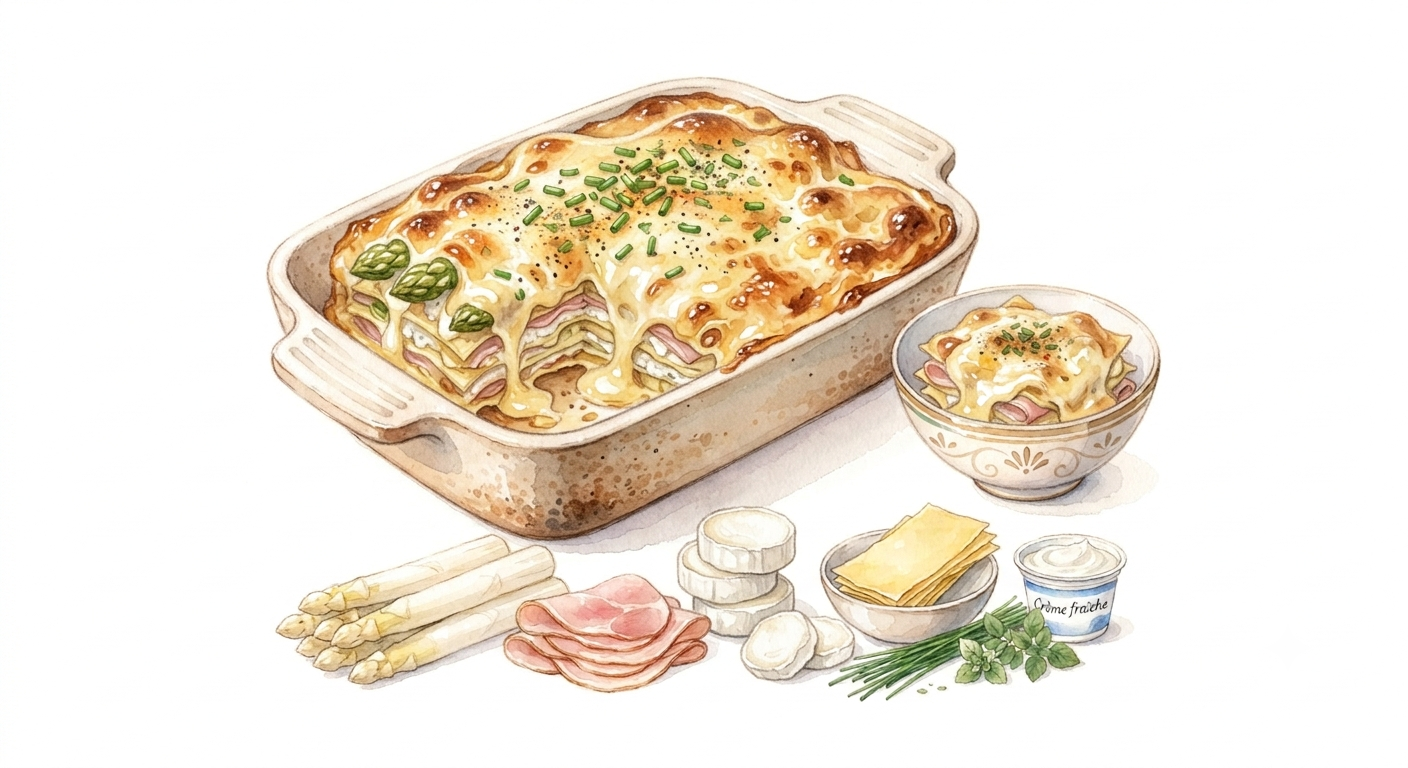
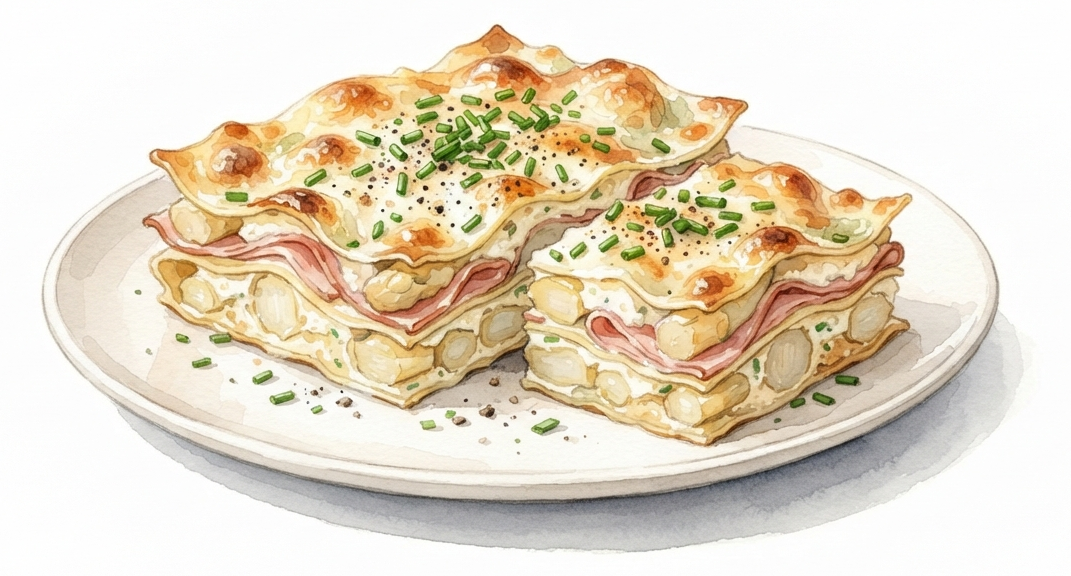
Add margin illustrations for pepernoten whitening, tarte tatin and shoarmabroodjes (#166)
* Whiten off-white background in pepernoten margin image

The generated illustration had a slight cream/yellow cast in the
background instead of pure white. Ran normalize_background.py to
flood-fill it to pure white with a feathered edge.

Claude-Session: https://claude.ai/code/session_01ESSYff96puni9Bb7ScsNHw

* Add margin illustrations for tarte-tatin-wortel and shoarmabroodjes

Cropped both uploads to the subject and verified background whiteness
before wiring them in as \marginimage, matching the last two recipes
that still had no artwork at all.

Claude-Session: https://claude.ai/code/session_01ESSYff96puni9Bb7ScsNHw

* Add margin illustration for aardappelen, groente en vlees

Adds an ingredients \marginimage on page one alongside the existing
\heroimagefade, matching the two-page ingredients+hero pattern used
elsewhere in the book.

Claude-Session: https://claude.ai/code/session_01ESSYff96puni9Bb7ScsNHw

* Add margin illustration for arretjescake

Claude-Session: https://claude.ai/code/session_01ESSYff96puni9Bb7ScsNHw

* Add ingredients margin image and refresh hero for asperge-lasagne

Claude-Session: https://claude.ai/code/session_01ESSYff96puni9Bb7ScsNHw

* Add margin illustration for blini's met vier toppings

Claude-Session: https://claude.ai/code/session_01ESSYff96puni9Bb7ScsNHw

* Add margin illustration for bloemkoolquiche

Claude-Session: https://claude.ai/code/session_01ESSYff96puni9Bb7ScsNHw

* Add margin illustration for bobotie
[…]

diff --git a/recipes/arretjescake.tex b/recipes/arretjescake.tex
@@ -8,6 +8,7 @@
 
 \meta{15 minuten + minstens 2 uur koelen \dvd Voor 10 personen \dvd Eenvoudig}
 
+\marginimage{images/arretjescake-ingredienten}
 \lettrine{A}{rretjescake} heb ik een keer met kerst gemaakt als nagerecht. Het
 is een ouderwetse chocoladecake zonder ei, gemaakt van gebroken koekjes in een
 smeuïge chocolademassa. Er komt geen oven aan te pas. Smelt de chocolade au

diff --git a/recipes/broodje-hamburger.tex b/recipes/broodje-hamburger.tex
@@ -6,6 +6,7 @@
 
 \meta{30 minuten \dvd Oven grillstand}
 
+\marginimage{images/broodje-hamburger-ingredienten}
 \lettrine{B}{roodje} hamburger staat bij ons regelmatig op tafel. De winst zit in
 kleine dingen: langzaam gekaramelliseerde uien, een geroosterd bolletje en een
 plakje kaas dat op de hete burger smelt. De rest laten we door de kinderen zelf

diff --git a/recipes/aardappel-groente-vlees.tex b/recipes/aardappel-groente-vlees.tex
@@ -8,6 +8,7 @@
 
 \meta{30 minuten \dvd Eenvoudig}
 
+\marginimage{images/aardappel-groente-vlees-ingredienten}
 \lettrine{H}{eel} basis, maar geliefd: gebakken aardappeltjes, rauwe groente en
 vlees naar keuze. Geen vast recept, meer een combinatie die altijd werkt en
 makkelijk is aan te passen aan wat er in huis is. In plaats van de rauwe

diff --git a/recipes/blinis-vier-toppings.tex b/recipes/blinis-vier-toppings.tex
@@ -12,6 +12,7 @@
 
 \meta{45 minuten \dvd 8 stuks}
 
+\marginimage{images/blinis-vier-toppings-ingredienten}
 \lettrine{B}{lini's} zijn kleine, dikke pannenkoekjes uit Oost-Europa en een
 handig hapje voor bij de borrel: je belegt ze koud, dus er komt geen kookwerk
 meer bij zodra ze klaar zijn. Ze zijn ook een leuk voorgerecht met kerst.

diff --git a/recipes/bloemkoolquiche.tex b/recipes/bloemkoolquiche.tex
@@ -6,6 +6,7 @@
 
 \meta{100 minuten \dvd Voor 6 porties \dvd Oven 180\,°C}
 
+\marginimage{images/bloemkoolquiche-ingredienten}
 \lettrine{D}{eze} quiche maak ik al jaren regelmatig voor de familie. Stevig
 deeg, een vulling van bloemkool en spek, en veel kaas. Wie het snel wil
 doen gebruikt bladerdeeg in plaats van zelfgemaakt deeg.

diff --git a/recipes/broccolipasta-witvis-olijven-rode-ui.tex b/recipes/broccolipasta-witvis-olijven-rode-ui.tex
@@ -7,6 +7,7 @@
 
 \meta{30 minuten}
 
+\marginimage{images/broccolipasta-witvis-olijven-rode-ui-ingredienten}
 \lettrine{E}{en} romige pastaschotel met witvis en broccoli, met de zilte bite
 van zwarte olijven en de scherpte van rode ui erdoorheen. De light kookroom
 houdt het geheel luchtig zonder dat het gerecht aan saus tekortkomt.

diff --git a/recipes/shoarmabroodjes.tex b/recipes/shoarmabroodjes.tex
@@ -7,6 +7,7 @@
 
 \meta{2–3 uur rijzen \dvd 5 stuks \dvd Oven 250\,°C}
 
+\marginimage{images/shoarmabroodjes}
 \lettrine{Z}{achte,} lichtjes gezwollen broodjes om zelf te vullen met shoarma.
 Het deeg is eenvoudig, het enige wat het vraagt is tijd voor het rijzen.
 Een hete pizzasteen zorgt voor de goede bite aan de onderkant.

diff --git a/recipes/bobotie.tex b/recipes/bobotie.tex
@@ -7,6 +7,7 @@
 
 \meta{50 minuten \dvd Oven 180\,°C}
 
+\marginimage{images/bobotie-ingredienten}
 \lettrine{B}{obotie} is een Zuid-Afrikaans gerecht van gekruid gehakt met appel en
 groenten, afgedekt met een laag ei en melk en dan de oven in. Het wordt geserveerd
 met rijst gekookt met rozijnen.

diff --git a/recipes/brood.tex b/recipes/brood.tex
@@ -7,6 +7,7 @@
 
 \meta{Rijzen ca. 75 minuten \dvd 1 brood \dvd Oven 220\,°C}
 
+\marginimage{images/brood-ingredienten}
 \lettrine{V}{oor} dit brood gebruiken we een broodmix, Soezie van de Boerenbond
 werkt bij ons het beste. Zelf voeg je alleen nog zout, gist, boter en water
 toe.

diff --git a/recipes/tarte-tatin-wortel.tex b/recipes/tarte-tatin-wortel.tex
@@ -6,6 +6,7 @@
 
 \meta{1 uur \dvd Oven 180\,°C}
 
+\marginimage{images/tarte-tatin-wortel}
 \lettrine{E}{en} hartige tarte Tatin van Rachel Khoo\cite{khoo-tartetatin}, met
 in boter gebakken wortels onder een laag bladerdeeg. Een aardige afwisseling
 als bijgerecht, ook bij kerst.

diff --git a/recipes/asperge-lasagne.tex b/recipes/asperge-lasagne.tex
@@ -7,6 +7,7 @@
 
 \meta{35 minuten \dvd Oven 200\,°C}
 
+\marginimage{images/asperge-lasagne-ingredienten}
 \lettrine{E}{en} gestapeld gerecht van witte asperges en ham met een laagje geitenkaas
 en crème fraîche, drie keer op elkaar. 
 
